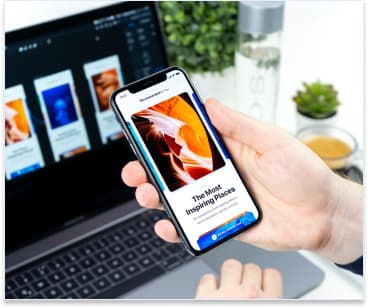
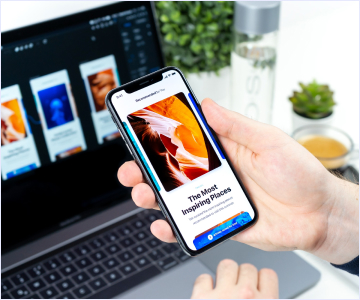
required

diff --git a/css/styles.css b/css/styles.css
@@ -178,8 +178,14 @@ body{
     display: flex;
     flex-direction: row;
     align-items: flex-start;
+    justify-content: center;
     gap: 24px;
     margin-bottom: 72px;
+}
+
+.content-list{
+    display: flex;
+    flex-wrap: wrap;
 }
 
 .category-btn{
@@ -209,11 +215,46 @@ body{
     box-shadow: 0px 1px 6px rgba(46, 47, 66, 0.08);
 }
 
+.features-list{
+    display: flex;
+    align-items: flex-start;
+    gap: 24px;
+}
+
+.do-list{
+    display: flex;
+    justify-content: center;
+    gap: 24px;
+}
+
+
 .team{
     background-color: var(--cloud);
 }
-.team-item{
+
+.team-list{
+    display: flex;
+    justify-content: center;
+    text-align: center;
+    gap: 32px;
+}
+
+.team-item img{
+    margin-bottom: 32px;
+}
+
+.team-item h3{
+    margin-bottom: 8px;
+}
+
+.team-item p {
+    margin-bottom: 32px;
+}
+
+.team-item{    
     background-color: var(--white);
+    box-shadow: 0px 1px 6px rgba(46, 47, 66, 0.08), 0px 1px 1px rgba(46, 47, 66, 0.16), 0px 2px 1px rgba(46, 47, 66, 0.08);
+    border-radius: 0px 0px 4px 4px;
 }
 .footer{
     background-color: var(--nuvy-blue);

diff --git a/index.html b/index.html
@@ -87,7 +87,7 @@
                         <img src="./images/phone.jpg" alt="Phone" height="300" width="360">
                     </li>
                     <li>
-                        <img src="./images/pc.jpg" alt="PC and phone" height="300" width="360">
+                        <img src="./images/laptope.jpg" alt="PC and phone" height="300" width="360">
                     </li>
                 </ul>
             </div>
